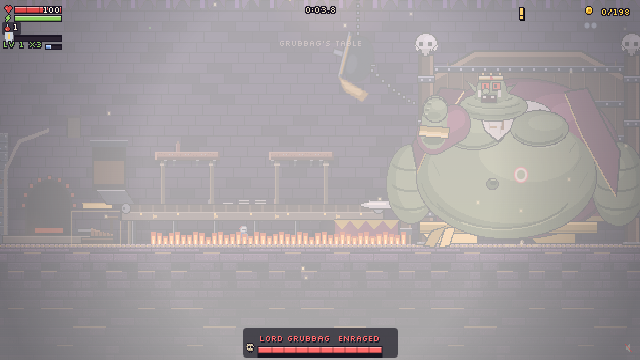
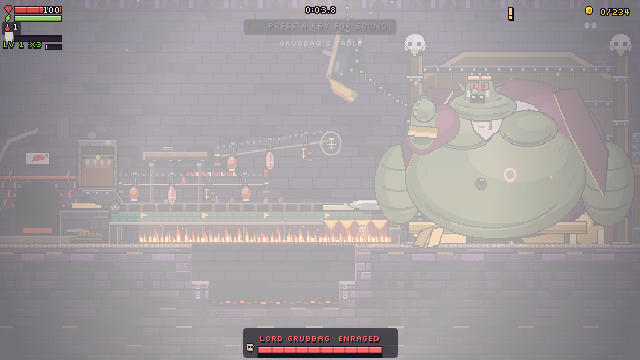
kitchengate4: lane report + greybox stills (trench, lit coals, hooks, drop, second helping, swell, bell hooks)

diff --git a/work/claude/lane-done/claude-kitchengate4.md b/work/claude/lane-done/claude-kitchengate4.md
@@ -1,0 +1,66 @@
+# claude/kitchengate4 - KITCHEN GATE 4: THE COAL TRENCH, THE MEAT-HOOK RAILS, THE SECOND HELPING (opus greybox)
+Branch `claude/kitchengate4` off `claude/batch133` (416af6c2). Brief: scratch/brief-kitchengate4-1030.md (Daniel approved all 3 recs 10-30 17:30). NOT merged, NOT deployed.
+GREYBOX: art before live - the sonnet art lane comes next (section ART NEEDS).
+
+## WHAT WAS BUILT
+**A. THE COAL TRENCH** (src/kitchen-gate.js arena block, src/grubbag.js geom/stepCoals)
+- The floor under the serving line's **east half** is cut 3 rows down to a coal bed (old cols 403-410, real 573-580), a one-row **chain-link step** at each end (bed -> step 16 px, step -> floor 32 px; a base jump rises 51). The hatch, the stove/bellows, the line's foot and his table side keep the old floor. (Brief said "from about the first shelf" - see Q5: the full-length trench broke the fight.)
+- A fall in = **COAL BITE** (GB.coal.dmg 8, `spare: true` - never a death on its own - and `noKnock`), told `THE COALS: CLIMB OUT`; on the coals it bites again every 1.4 s (no pin: never twice inside 1.4 s, plus the hero's own hit i-frames).
+- **THE GREASE SPILL LIGHTS IT**: a 0.6 s red glow (told `THE GREASE LIGHTS THE COALS`), then 6 s lit - bite x2 and the steps bite too (the climb out is hot). Greybox draw: embers, glow, flames.
+- No gold sprinkled in/over the trench (L.noCoin); the east torch moved off it; the hall's back wall drawn down into the trench.
+- Bot: climbs out at the nearer step; crosses the trench by the line (up its near end); never walks a dodge into the coals.
+- Real keys, all 9 heroes (tools/kitchengate4-keys.mjs): bitten, out at both ends in 0.7-1.4 s, alive.
+
+**B. THE MEAT-HOOK RAILS + THE PLATTER DROP** (L.zipLines `arena: true`, ids kg-arena-a / kg-arena-b)
+- LOWER rail from the hatch (rope 20 px over the line, taken with UP from the line - `upOnly`, see below), its red hop stretch hands off to the UPPER rail, which climbs over the trench and **ends over his platter**. Ridden to its end, every hero comes down ON the platter (flown for 9 heroes x 3 holds).
+- **DROP ON THE PLATTER = THE 3rd OPENING `KNOCKED OFF HIS FEET`** (grubbag.js platterDrop, hands detect a hero let go of an arena rail landing on the platter within 1.6 s): the dishes on the line are KNOCKED FLYING, a cooling pepper stove is hot again, and he is open GB.drop {t 3, x2, cap 0.06} (shared gold ring + timer), then the told WARD. One per 12 s; never stacks on the bomb's stun/chilli (the longer stands, only the food flies). boss-greed and gbOpen know the new mode; B15 floor unchanged (well fed x0.45, ward x0.4).
+- A hero left on the platter is tipped off toward him after 0.8 s (no contact damage).
+- Taught: a sign at the hall's door `RIDE THE HOOK, DROP ON HIS PLATTER.` + the told line.
+- **src/zipline.js: ONE flag added, `upOnly`** (a rope taken only with UP). Found by the rates: jumping up onto the line at its foot SNATCHED the lower hook by touch (the bot never batted a bomb). The regrab fix (P.zipSkip / zipHard) is untouched; tools/zipline.mjs green.
+- Real keys, all 9 heroes: UP takes the lower rail, JUMP in the red stretch hands off, he lands on the platter -> KNOCKED OFF HIS FEET, a blade x2.
+
+**C. FOOD BONUS LEGIBLE + THE SECOND HELPING** (grubbag.js eat/start, hands draw)
+- A dish eaten: belly SWELLS 0.4 s (POSE.eatSwell, belly 1.2), a BIG green `+N` (text size 10 vs 6), `MORE!`; GB.dish heal 0.05 / cap 0.1 UNCHANGED.
+- Each dish owes ONE SECOND HELPING (never stacks), spent on his next LOB / FLING / GREASE (belch, sweep, bell, grab leave it owed): DOUBLE LOB (one more ham, the far side, 0.25 s after the last), FASTER FLING (330 -> 412 px/s), LONGER GREASE WAVE (burn 1.8 -> 2.52 s). Windups/tells NOT shortened (B16); `SECOND HELPING` said + drawn and a gold/red rim on his throwing hand during the windup. No change to what he takes.
+
+**D. ORDER UP** - the bell runs both hook rails x1.6 (z.speed set by the hands, restored after; the rush's own red stretch `hopRush` flown for every hero) and the ATTENDANTS RIDE DOWN THE HOOKS from the hatch (staggered 0.9 s; lower rail -> swing to the upper -> drop off its end on the platter; main.js one guarded line `GBH.ride`). A blow knocks one off (`ATTENDANT FALLS`); on the coals they burn. Max 2 as before.
+
+**E. THE BOT** (gbPlan) - the hook route (UP under the lower hook, kick in the red stretch, ride to the platter) weighed 0.3 per move of his (0.45 v2), only with the drop ready, no bomb/chilli on the line and no bomb next out; trench climb; trench crossing by the line; jumps the sweep on the beat at the platter end. lab.js passes `zip` and maps `up`/`kick`.
+
+Also: walking back WEST against the line over the trench it carries you half as hard (the line is the way back to the hatch now).
+
+## TUNE (tools/boss-rates.mjs kitchengate --ways=practiced --profile=human, campaign L20, flasks kit, seeds 301-306)
+| state | knight | warden | pyro | total |
+|---|---|---|---|---|
+| BASE batch133 (3 seeds, same seeds) | 2/3 | 1/3 | 3/3 | 67% |
+| first cut, full-length trench | 0/3 | 0/3 | 0/3 | 0% (bot stuck on coals, drop eating the bombs, hook snatched by jumps) |
+| fixes + east-half trench, dmgMul 2.6 | 1/3 | 1/3 | 1/3 | 33% |
+| + half carry walking back, drop 3.5 s/.08, dmgMul 2.6 | 3/3 | 2/3 | 3/3 | 89% |
+| same, dmgMul 2.9 (6 seeds) | 4/6 | 4/6 | 6/6 | 78% |
+| **FINAL: dmgMul 2.9 (unchanged), drop 3 s / cap .06 (brief rec), 6 seeds** | **5/6** | **2/6** | **6/6** | **72% (HIGH +2)** |
+- **DRY** (human+dry, 3 seeds): 2/3 1/3 1/3 = 44% (kitchengate2: 42%).
+- **Fight length (wins):** knight 102-112 s (was 110-133), warden 167-192 s (was 147-175), pyro 114-152 s (was 129-132). Knight ~12% shorter; overall about the same.
+- **Mash**: boss 0/6 (0 blows landed, dead in 18-48 s); level mode dies with every hero. Stamped.
+- Coal share: the bot rarely touches the coals now (0-2 bites a fight); its deaths are flings / lobs / sweeps as before. The warden still the low hero (as in every Grubbag tune; the warden bot misses flings).
+- **The tune lane should**: 12-seed confirm; if it stays at 72%+, nudge down via GB.drop.cd 12 -> 14 or the carry-back 0.5 -> 0.65 (not dmgMul).
+
+## CHECKS RUN (one tool at a time, PORT 6600, memguard running, never check.mjs)
+GREEN: tools/kitchengate.mjs (194 ok - ~45 new asserts: trench, bite, lit coals, rails, upOnly, platter landing, rush hop, drop, second helping x3 moves, swell, hands fake world: rail speed, attendants on hooks, knock-off, coals, platter drop + shove, bot hook route/trench), tools/kitchengate4-keys.mjs (NEW, real keys x 9 heroes), kitchengate-probe, zipline, reach-heroes kitchengate (0 crossings), boss-read, tells, boss-openings, untold-told, boss-heal, checkpoint-gaps (kitchengate row unchanged), level-quality kitchengate (CLEARS THE BAR), mash-gate (after re-stamp: 53 levels hold).
+RED not mine: boss-fight-end 2/68 = THE CHURCH page CRASHED (Inspector.targetCrashed, the fight never started, low RAM beside the gate); kitchengate's own row: ended in 6 s.
+GREEN: tools/corpses.mjs (every reskin in its own skin; the attendants burned on the coals use the existing kill path).
+Re-stamped (level then boss): docs/level1-pilot.json (47 hits/2 deaths, was 40/2), docs/level1-curve.json, docs/mash-bot.json.
+Not run: full suite (forbidden), mark-integrity (stamp after art), stuck-spots glint (no stuck-spot entry added - the steps and the hooks are in plain sight in a boss hall; Q6).
+
+## SCREENSHOTS (work/claude/lane-done/, tools/kitchengate-shots.mjs gb-trench,gb-trench-lit,gb-hookA,gb-hookB,gb-drop,gb-second,gb-swell,gb-bell-hooks)
+kitchengate-gb-trench.png, -gb-trench-lit.png, -gb-hookA.png, -gb-hookB.png, -gb-drop.png, -gb-second.png, -gb-swell.png, -gb-bell-hooks.png (+ gb-sit, gb-grease). Copies in scratch/lane-reports/kitchengate4-*.png.
+
+## QUESTIONS FOR DANIEL (rec first; the rec is what is built)
+1. **Trench length**: the brief's full-line trench (old 399-410) made the hatch side unreachable except by walking back up the conveyor: 0% for every hero. REC (built): the EAST half only (403-410) - the stove, the hatch and the line's foot keep their floor; the way to HIM is over the coals (the line or the hooks). Alt: full length + a gangway.
+2. **What the drop knocks flying**: the brief said every item. REC (built): the DISHES only - a bomb or chilli on the line rides on (knocking them off cancelled the player's own openings and halved the bot's bomb stuns). Alt: everything flies (harder, the drop competes with the bombs).
+3. **Carry walking back**: REC (built): over the trench the line carries you half as hard while you walk west against it (it is the only way back to the hatch). Alt: full carry (much harder: 33% at a lower dmgMul).
+4. **Lower hook UP-only** (src/zipline.js `upOnly`, one flag): REC keep - a jump up onto the line must never snatch the hook. The upper hook stays touch-catchable (the hop) and can also be taken by a jump from the line - REC keep (every hero reaches the drop, B12).
+5. **Drop opening**: REC (built) the brief's 3 s / cap 0.06 / one per 12 s. Q2/Q3/Q4 of the brief built as recommended (climb, 3 s/12 s, lob/fling/grease only, both rails from P1, bell speeds them in P2+).
+6. **Stuck-spot glint for the steps/hooks**: REC none (a boss hall, both in view, the sign + told lines teach it). Alt: add src/stuck-spots entries in the art lane.
+
+## NEXT LANE: SONNET ART (art before live), then SONNET TUNE (12-seed)
+ART NEEDS: the coal bed (embers; the glow; the lit flare), the chain-link steps (chains on the step faces), the arena hook rails' hooks + carcasses (kitchen rail art already draws them - check the two arena rails in view), the platter-drop landing (splatter, dishes flying), the belly swell (POSE.eatSwell) and the big `+N` / `MORE!` read, the SECOND HELPING rim on his hand, attendants hanging on hooks (an attendant 'hang' frame), the hall's back wall below the old floor line in the trench. The cauldron hangs close over the upper rail's end - check the art doesn't overlap the rider.
